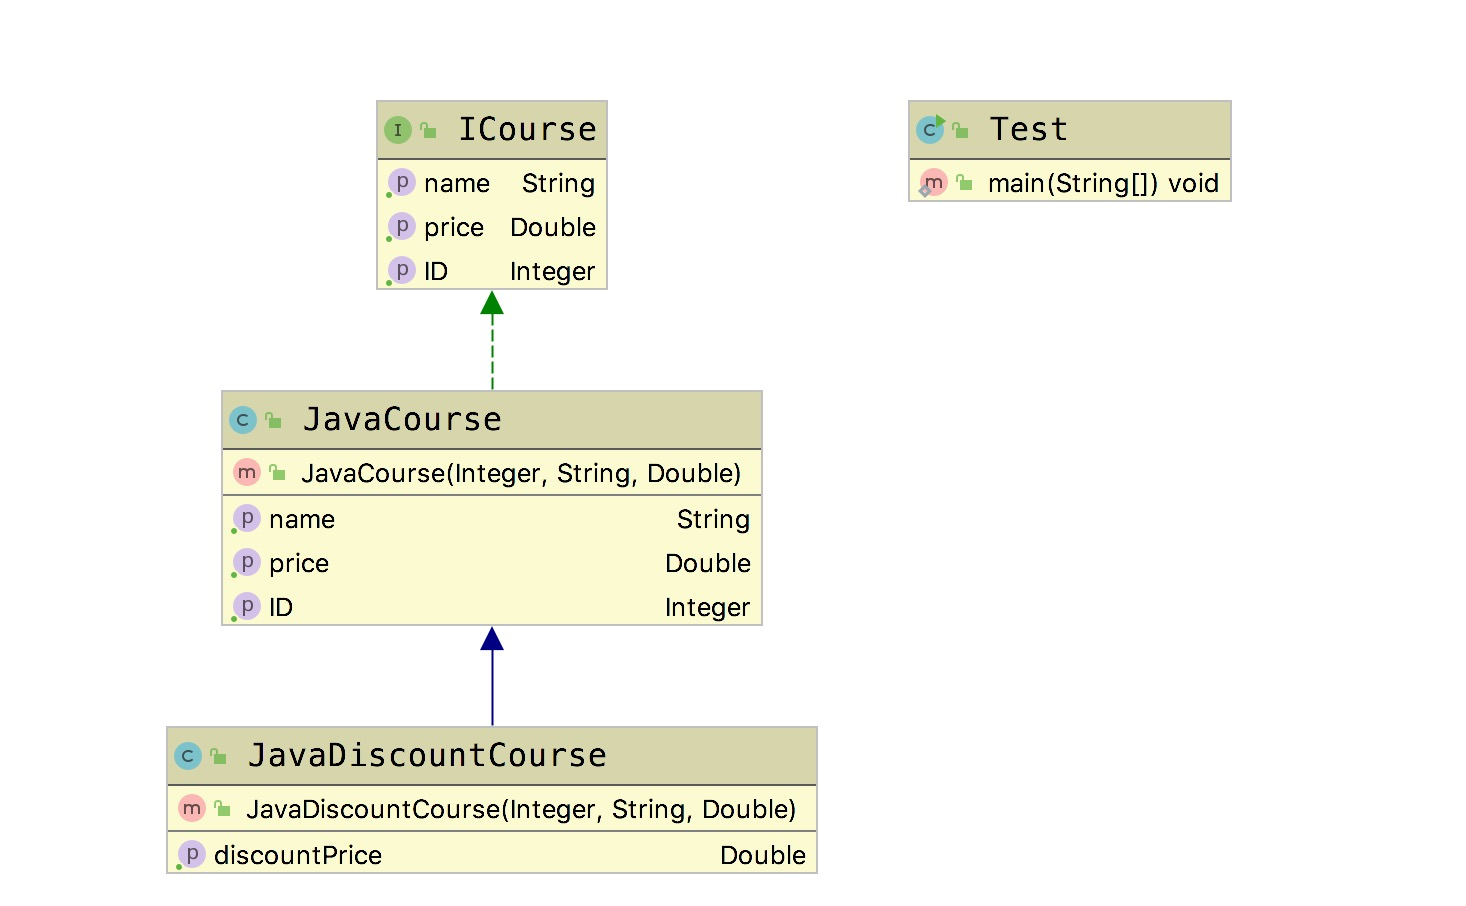
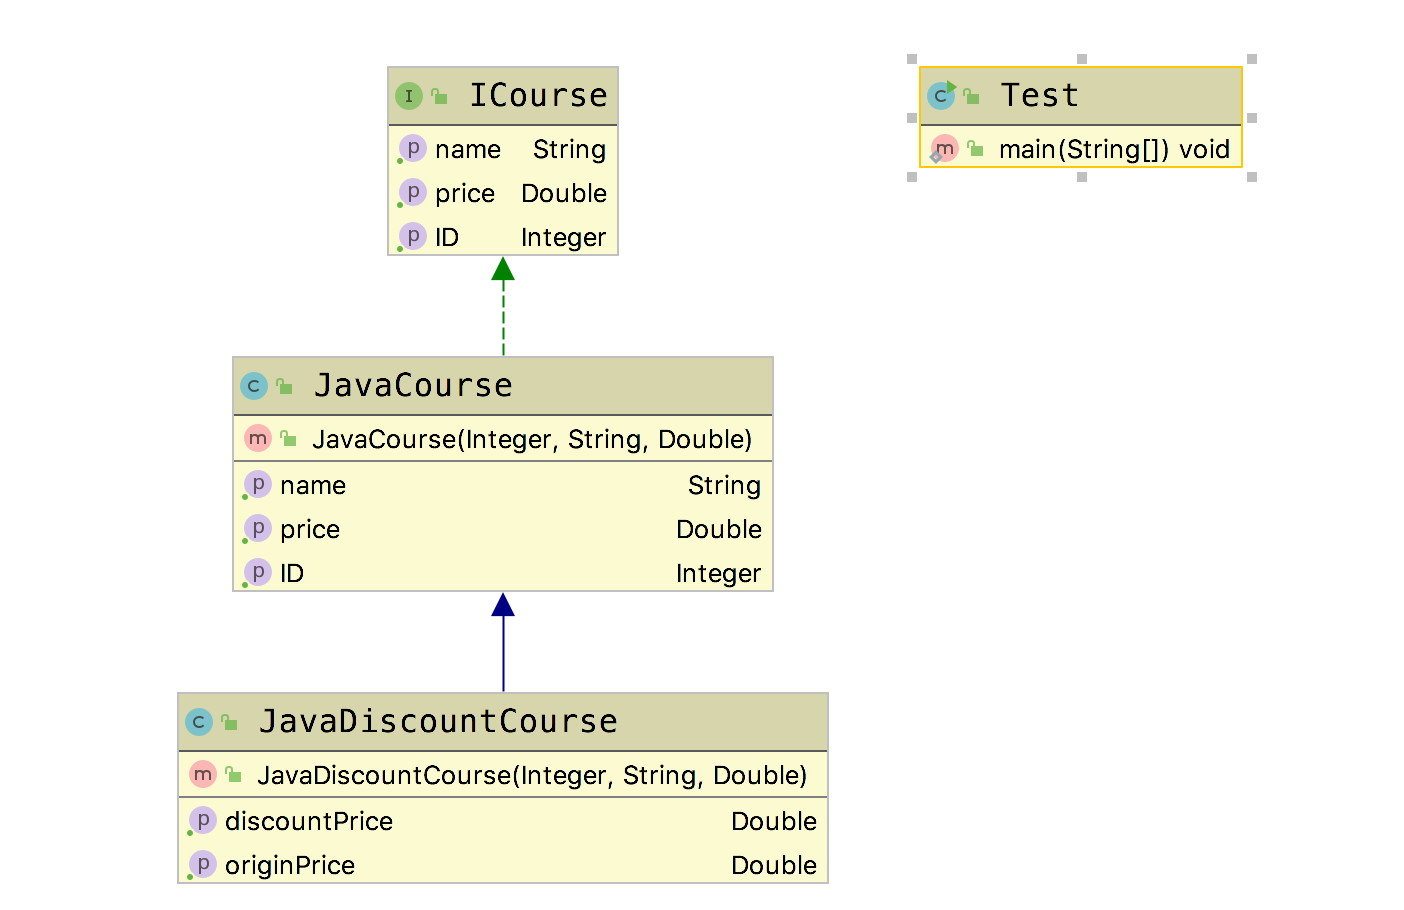
update openclose principle

Changed region(s): [[0.0919, 0.0618, 0.6125, 0.989], [0.6125, 0.0618, 0.8882, 0.2472]]

diff --git a/designpattern/seven-principle/open-closed-principle.md b/designpattern/seven-principle/open-closed-principle.md
@@ -24,25 +24,25 @@ type CourseInterface interface {
 package openclose
 
 type JavaCourse struct {
-    id    int
-    name  string
-    price float32
+  id    int
+  name  string
+  price float32
 }
 
 func NewJavaCourse(id int, name string, price float32) *JavaCourse {
-    return &JavaCourse{id: id, name: name, price: price}
+  return &JavaCourse{id: id, name: name, price: price}
 }
 
 func (j *JavaCourse) GetID() int {
-    return j.id
+  return j.id
 }
 
 func (j *JavaCourse) GetName() string {
-    return j.name
+  return j.name
 }
 
 func (j *JavaCourse) GetPrice() float32 {
-    return j.price
+  return j.price
 }
 ```
 
@@ -50,15 +50,19 @@ func (j *JavaCourse) GetPrice() float32 {
 package openclose
 
 type JavaDiscountCourse struct {
-    JavaCourse
+  JavaCourse
 }
 
 func NewJavaDiscountCourse(ID int, name string, price float32) *JavaDiscountCourse {
-    return &JavaDiscountCourse{JavaCourse: *NewJavaCourse(ID, name, price)}
+  return &JavaDiscountCourse{JavaCourse: *NewJavaCourse(ID, name, price)}
+}
+
+func (j *JavaDiscountCourse) GetOriginPrice() float32 {
+  return j.GetPrice()
 }
 
 func (j *JavaDiscountCourse) GetDiscountPrice() float32 {
-    return j.price * 0.8
+  return j.GetPrice() * 0.8
 }
 
 ```
@@ -130,6 +134,9 @@ public class JavaDiscountCourse extends JavaCourse {
   public JavaDiscountCourse(Integer id, String name, Double price) {
     super(id, name, price);
   }
+  public Double getOriginPrice() {
+    return super.getPrice() ;
+  }
 
   public Double getDiscountPrice() {
     return super.getPrice() * 0.8;
@@ -150,7 +157,7 @@ public class Test {
             + " 名称:"
             + javaCourse.getName()
             + " 原价:"
-            + javaCourse.getPrice()
+            + javaCourse.getOriginPrice()
             + " 折后价格:"
             + javaCourse.getDiscountPrice()
             + "元");

diff --git a/designpattern/readme.md b/designpattern/readme.md
@@ -2,7 +2,7 @@
 # DesignPattern
 
 &emsp;&emsp; 在最近的工作中发现自己对于一些基础知识的掌握一直浮于表面，因此打算拿出一些精力来进行查漏补缺。  
-&emsp;&emsp; 网上上对于设计模式的讲解一般是基于java语言的，而我最近工作中主要的编程语言是golang，所以我决定，对于每种设计模式，都以java和golang两种语言来实现。
+&emsp;&emsp; 网上对于设计模式的讲解一般是基于java语言的，而我最近工作中主要的编程语言是golang，所以我决定，对于每种设计模式，都以java和golang两种语言来实现。
 
 ## 一些参考
 
